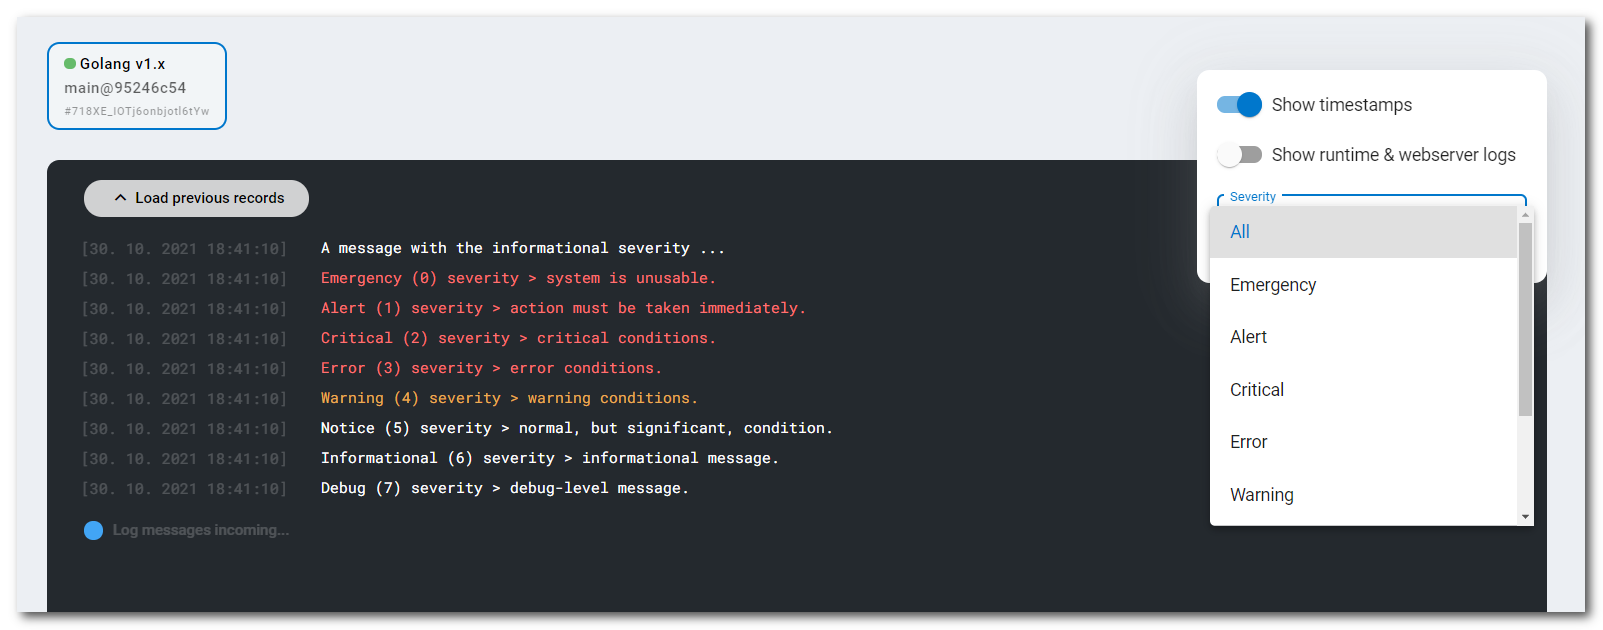
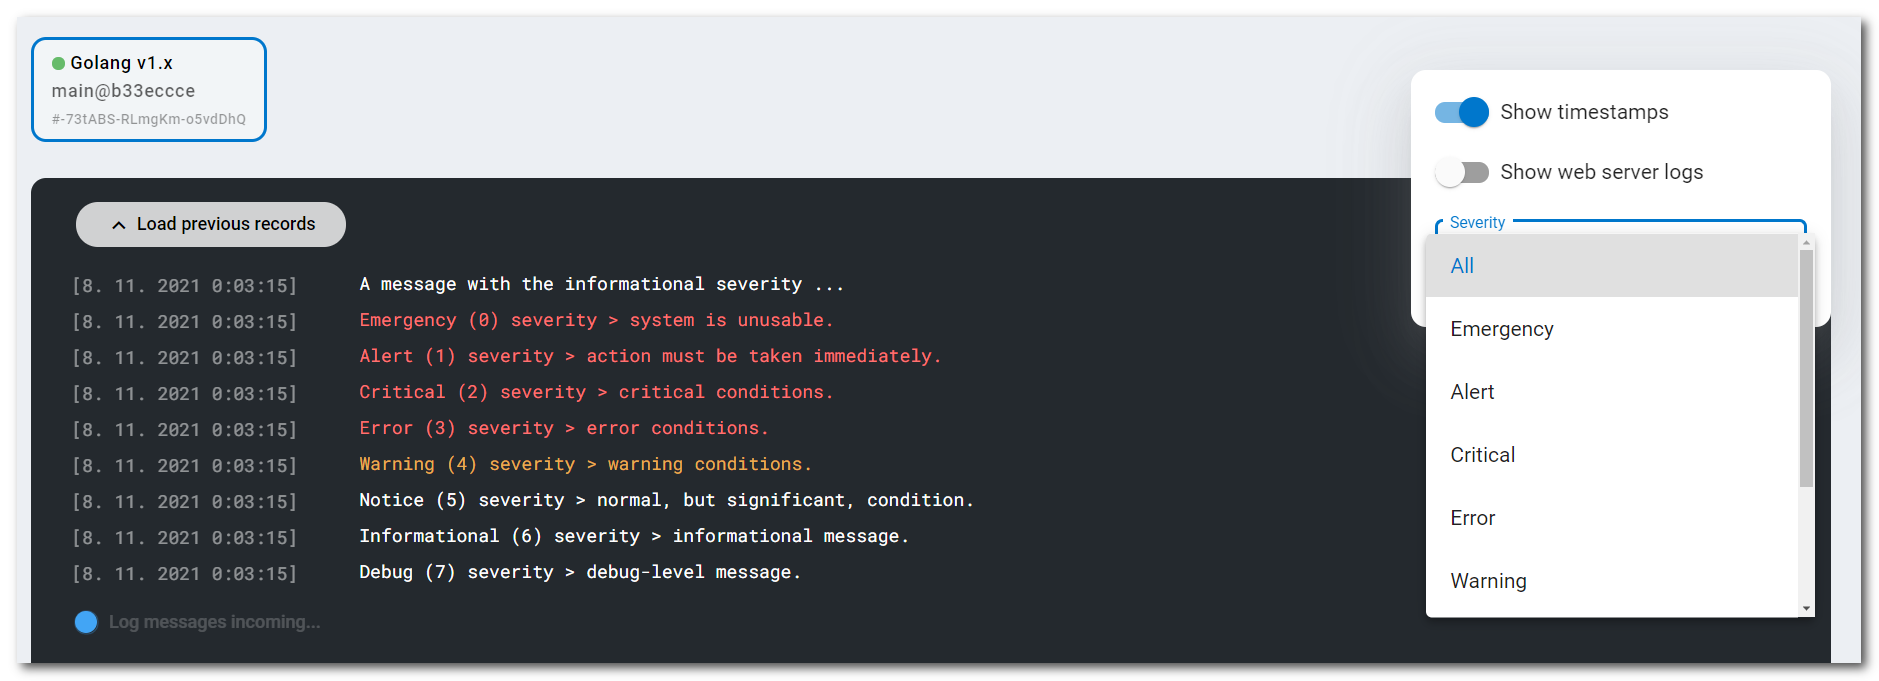
docs(logging): web access & error logs

Changed region(s): [[0.0, 0.0302, 0.9981, 0.9952], [0.0, 0.0302, 0.156, 0.2111]]

diff --git a/src/documentation/services/runtimes/php.md b/src/documentation/services/runtimes/php.md
@@ -207,7 +207,7 @@ We recommend that you create a directory ==`php.d`== in the [code root](#code-ro
 Generally, you have several options for how to customize PHP configuration settings. The list of `php.ini` [directives](https://www.php.net/manual/en/ini.list.php) also contains a column with `Changeable` header that shows [modes determining](https://www.php.net/manual/en/configuration.changes.modes.php) when and where a directive may be set. Directives with `PHP_INI_USER`, `PHP_INI_PERDIR`, or `PHP_INI_ALL` mode can be easily controlled from the application code. But directives marked with `PHP_INI_SYSTEM` can be set only through `php.ini` configuration to which you don't have direct access.
 
 <!-- markdownlint-disable DOCSMD004 -->
-::: info 
+::: info
 To see the current `php.ini` configuration, use the `phpinfo()` function.
 :::
 <!-- markdownlint-enable DOCSMD004 -->
@@ -237,35 +237,70 @@ file_uploads = Off
 
 ## Logging
 
-Both access and error logs are configured using a syslog service to centralize all records and allowing live access through a **Runtime log** tab inside your service detail for each Zerops service container.
+Application logs, together with web access and error logs are configured using a syslog service to centralize all records and allowing live access through the **Runtime log** tab inside your service detail for each Zerops service container. It's not necessary to refresh the view. New logs are automatically passed through a web socket channel and shown immediately.
 
 ![Runtime log](./images/Runtime-Log.png "Runtime log access")
 
 Default **Apache** configuration is done through `/etc/apache2/sites-enabled/vhost.conf`, and you don't have direct edit access to its content. **You can't change it**.
 
 ```shell
-ErrorLog  "| /usr/bin/logger -thttpd -plocal6.err"
-CustomLog "| /usr/bin/logger -thttpd -plocal6.notice" combined
+CustomLog "| /usr/bin/logger -thttpd -plocal1.notice" combined
+ErrorLog  "| /usr/bin/logger -thttpd -plocal1.err"
 ```
 
 Default **Nginx** configuration is done through `/etc/nginx/sites-enabled/default.site`, and you have direct edit access to its content through the [Nginx configuration](#default-nginx-config) section. **You can change it**, but be careful what you are doing.
 
 ```shell
-access_log syslog:server=unix:/dev/log,facility=kern default_short;
-error_log syslog:server=unix:/dev/log,facility=kern;
+access_log syslog:server=unix:/dev/log,facility=local1 default_short;
+error_log syslog:server=unix:/dev/log,facility=local1;
 ```
 
-You can use PHP [error_log](https://www.php.net/manual/en/function.error-log.php) directive to pass any application runtime error,
+As you can see in both cases, **web access & error logs** are directed with **facility number 17** ( ==`local1`== ). This is an important fact, as the Zerops GUI has a dedicated switch (**Show web server logs**) for showing them when enabled. Access logs are set up with **severity 6** (**Informational**) and error logs with **severity 4** (**Error**).
+
+![PHP Logging](./images/Access-Error-Logs-PHP.png "Access & Error logs")
+
+Applications can emit custom web error logs using the PHP [error_log](https://www.php.net/manual/en/function.error-log.php) directive,
 
 ```php
 error_log("Application is running in the read-only mode.");
 ```
 
-and see it in the **Runtime log** tab later.
+and see them with **severity 4** (**Error**) in the **Runtime log** tab again.
 
-![Runtime log](./images/Runtime-Log-PHP-Error.png "Runtime log PHP error")
+System logs generated by application code using the PHP [syslog](https://www.php.net/manual/en/function.syslog.php) functionality, are processed via **Linux Systemd daemon** as log messages (see [RFC5424](https://datatracker.ietf.org/doc/html/rfc5424#section-6.2.1)). You have to use ==`LOG_LOCAL0`== as **facility number 16** ( ==`local0`== ) in [openlog](https://www.php.net/manual/en/function.openlog.php) to emit those logs correctly and show them in the **Runtime log** tab, now with the dedicated switch (**Show web server logs**) in the disabled state.
 
-See the [Apache](https://httpd.apache.org/docs/2.4/logs.html) or [Nginx](https://docs.nginx.com/nginx/admin-guide/monitoring/logging) documentation for more information.
+You are setting a log severity by the first parameter when calling [syslog](https://www.php.net/manual/en/function.syslog.php) function.
+
+```php
+openlog("", LOG_PID, LOG_LOCAL0);
+syslog(LOG_EMERG, "Emergency (0) severity > system is unusable.");
+syslog(LOG_ALERT, "Alert (1) severity > action must be taken immediately.");
+syslog(LOG_CRIT, "Critical (2) severity > critical conditions.");
+syslog(LOG_ERR, "Error (3) severity > error conditions.");
+syslog(LOG_WARNING, "Warning (4) severity > warning conditions.");
+syslog(LOG_NOTICE, "Notice (5) severity > normal, but significant, condition.");
+syslog(LOG_INFO, "Informational (6) severity > informational message.");
+syslog(LOG_DEBUG, "Debug (7) severity > debug-level message.");
+closelog();
+```
+
+Then you can filter log messages generated by application code by selecting the severity level, or show all of them by selecting the **All** option.
+
+![Logs](./images/Application-Logs-PHP.png "Application logs")
+
+<!-- markdownlint-disable DOCSMD004 -->
+::: warning Supported facility numbers
+Don't use any other facility number except ==`local0`== and ==`local1`== as shown above. If you use another one (0 .. 15, 18 .. 23) by [RFC5424](https://datatracker.ietf.org/doc/html/rfc5424#section-6.2.1), they will be overwritten to ==`local0`== on the Zerops backend. At the same time, **important** system messages originating from the container's runtime environment are checked and transparently included in the application logs, regardless of their original facility number, to inform the user.
+:::
+<!-- markdownlint-enable DOCSMD004 -->
+
+<!-- markdownlint-disable DOCSMD004 -->
+::: warning Openlog prefix parameter
+Currently, the first parameter of the [openlog](https://www.php.net/manual/en/function.openlog.php) function (prefix) is not shown in the **Runtime log** view. If you enter it, it's processed internally and saved in log data but not shown. Use simply an empty string as the value `openlog("", LOG_PID, LOG_LOCAL0);`.
+:::
+<!-- markdownlint-enable DOCSMD004 -->
+
+See the [Apache](https://httpd.apache.org/docs/2.4/logs.html) or [Nginx](https://docs.nginx.com/nginx/admin-guide/monitoring/logging) documentation for more information about web logging.
 
 ## How to browse the content of a runtime container
 

diff --git a/src/documentation/services/runtimes/nodejs.md b/src/documentation/services/runtimes/nodejs.md
@@ -135,11 +135,11 @@ Both package managers are installed in each Node.js container. You can install a
 
 ## Logging
 
-Both console and error logs are configured using a syslog service to centralize all records and allowing live access through a **Runtime log** tab inside your service detail for each Zerops service container.
+Both console and **important** system messages coming from the container's runtime environment are configured using a syslog service to centralize all records and allowing live access through the **Runtime log** tab inside your service detail for each Zerops service container. It's not necessary to refresh the view. New logs are automatically passed through a web socket channel and shown immediately.
 
 ![Runtime log](./images/Runtime-Log.png "Runtime log access")
 
-It's possible to distinguish between system messages generated directly by the runtime environment, and messages generated by application code. All messages sent to **Stderr** (standard error file descriptor) or **Stdout** (standard output file descriptor), like by using the Node.js `console` module, are processed via **Linux Systemd daemon** as log messages with the **facility number 16** (local0) and **severity 6** (Informational) by default (see [RFC5424](https://datatracker.ietf.org/doc/html/rfc5424#section-6.2.1)).
+All messages sent to **Stderr** (standard error file descriptor) or **Stdout** (standard output file descriptor), using the Node.js `console` module, are processed via **Linux Systemd daemon** as log messages with **facility number 16** ( ==`local0`== ) and **severity 6** (**Informational**) by default (see [RFC5424](https://datatracker.ietf.org/doc/html/rfc5424#section-6.2.1)).
 
 If you want to set another severity, use a message prefix ==`<N>`== to encode such a log severity in printed lines, as shown below.
 
@@ -155,9 +155,13 @@ console.log('<6>Informational (6) severity > informational message.');
 console.log('<7>Debug (7) severity > debug-level message.');
 ```
 
-Then you can filter log messages generated by application code by selecting the severity level, or show all of them by selecting the **All** option.
+Then you can show log messages with **facility number 16** ( ==`local0`== ) in the **Runtime log** view and choose the severity level, or show all of them by selecting the **All** option. Keep the dedicated switch **Show web server logs** in the disabled state. It is related only to the web server access & error logs if anyone is operated in the runtime environment.
 
 ![Logs](./images/Log_Records_Severities_NodeJS.png "Logs by severity")
+
+When you configure and run a web server (for example, [Express](https://www.npmjs.com/package/express), [NestJS](https://nestjs.com), [Koa](https://koajs.com)) as a part of application code, you may have reasons to make logging by a different way, for example, using logging libraries like [Winston](https://www.npmjs.com/package/winston), [Bunyan](https://www.npmjs.com/package/bunyan), or [Syslog-client](https://www.npmjs.com/package/syslog-client). These could be more suitable for your projects, especially for the production environment.
+
+The important thing in such cases is choosing **facility number 17** ( ==`local1`== ) as the configuration option. The reason is the dedicated switch **Show web server logs** in the **Runtime log** view that allows you to show web access & error logs separately from standard application logs. It's important, especially from the access logs point of view, because there could be thousands and thousands of records.
 
 <!-- markdownlint-disable DOCSMD004 -->
 ::: info Console methods
@@ -166,8 +170,12 @@ Then you can filter log messages generated by application code by selecting the 
 
 * Those methods usually are synchronous functions when the destination is a terminal or a file, so they are not suitable for production very well unless you pipe the output to another program. **In the Zerops environment, the output is piped to a logger controller of the Project Core Service, so logging operations are processed asynchronously** (see [Detail of Project Core Service](/documentation/overview/how-zerops-works-inside/typical-schemas-of-zerops-projects.html) tab). The environment was tested for throughput around ~50K logs/second.
 
-* But you can also have reasons to make activity logging by a different way, for example, using logging libraries like [winston](https://www.npmjs.com/package/winston), [bunyan](https://www.npmjs.com/package/bunyan), or [syslog-client](https://www.npmjs.com/package/syslog-client). These could be more suitable for your projects then. The reason may also be more flexible way how to set up facility numbers, severities, and other parameters.
+:::
+<!-- markdownlint-enable DOCSMD004 -->
 
+<!-- markdownlint-disable DOCSMD004 -->
+::: warning Supported facility numbers
+Don't use any other facility number except ==`local0`== and ==`local1`== as shown above. If you use another one (0 .. 15, 18 .. 23) by [RFC5424](https://datatracker.ietf.org/doc/html/rfc5424#section-6.2.1), they will be overwritten to ==`local0`== on the Zerops backend. At the same time, **important** system messages originating from the container's runtime environment are checked and transparently included in the application logs, regardless of their original facility number, to inform the user.
 :::
 <!-- markdownlint-enable DOCSMD004 -->
 

diff --git a/src/documentation/services/runtimes/golang.md b/src/documentation/services/runtimes/golang.md
@@ -117,11 +117,11 @@ You can also run an application fully in your local workspace and access other s
 
 ## Logging
 
-Both console and error logs are configured using a syslog service to centralize all records and allowing live access through a **Runtime log** tab inside your service detail for each Zerops service container.
+Both console and **important** system messages coming from the container's runtime environment are configured using a syslog service to centralize all records and allowing live access through the **Runtime log** tab inside your service detail for each Zerops service container. It's not necessary to refresh the view. New logs are automatically passed through a web socket channel and shown immediately.
 
 ![Runtime log](./images/Runtime-Log.png "Runtime log access")
 
-It's possible to distinguish between system messages generated directly by the runtime environment, including web server logs, and messages generated by application code. All messages sent to **Stderr** (standard error file descriptor) or **Stdout** (standard output file descriptor), like by using the Golang `fmt` package, are processed via **Linux Systemd daemon** as log messages with the **facility number 16** (local0) and **severity 6** (Informational) by default (see [RFC5424](https://datatracker.ietf.org/doc/html/rfc5424#section-6.2.1)).
+All messages sent to **Stderr** (standard error file descriptor) or **Stdout** (standard output file descriptor), using the Golang `fmt` package, are processed via **Linux Systemd daemon** as log messages with **facility number 16** ( ==`local0`== ) and **severity 6** (**Informational**) by default (see [RFC5424](https://datatracker.ietf.org/doc/html/rfc5424#section-6.2.1)).
 
 If you want to set another severity, use a message prefix ==`<N>`== to encode such a log severity in printed lines, as shown below.
 
@@ -137,9 +137,19 @@ fmt.Println("<6>Informational (6) severity > informational message.")
 fmt.Println("<7>Debug (7) severity > debug-level message.")
 ```
 
-Then you can filter log messages generated by application code by selecting the severity level, or show all of them by selecting the **All** option.
+Then you can show log messages with **facility number 16** ( ==`local0`== ) in the **Runtime log** view and choose the severity level, or show all of them by selecting the **All** option. Keep the dedicated switch **Show web server logs** in the disabled state. It is related only to the web server access & error logs if anyone is operated in the runtime environment.
 
 ![Logs](./images/Log_Records_Severities_Golang.png "Logs by severity")
+
+When you configure and run a web server (for example, [Gin](https://github.com/gin-gonic/gin), [BeeGo](https://github.com/astaxie/beego), [Echo](https://github.com/labstack/echo), [Fast HTTP](https://github.com/valyala/fasthttp)) as a part of application code, you may have reasons to make logging by a different way, for example, using logging libraries like [Zerolog](https://github.com/rs/zerolog), or [Logrus](https://github.com/sirupsen/logrus). These could be more suitable for your projects, especially for the production environment.
+
+The important thing in such cases is choosing **facility number 17** ( ==`local1`== ) as the configuration option. The reason is the dedicated switch **Show web server logs** in the **Runtime log** view that allows you to show web access & error logs separately from standard application logs. It's important, especially from the access logs point of view, because there could be thousands and thousands of records.
+
+<!-- markdownlint-disable DOCSMD004 -->
+::: warning Supported facility numbers
+Don't use any other facility number except ==`local0`== and ==`local1`== as shown above. If you use another one (0 .. 15, 18 .. 23) by [RFC5424](https://datatracker.ietf.org/doc/html/rfc5424#section-6.2.1), they will be overwritten to ==`local0`== on the Zerops backend. At the same time, **important** system messages originating from the container's runtime environment are checked and transparently included in the application logs, regardless of their original facility number, to inform the user.
+:::
+<!-- markdownlint-enable DOCSMD004 -->
 
 ## How to browse the content of a runtime container
 
